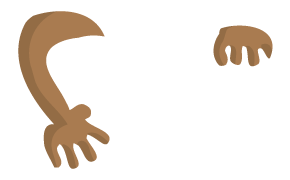
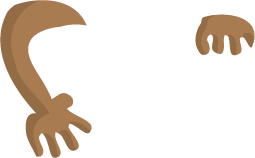
Updated customer arms graphics.

Changed region(s): [[0.0, 0.0, 0.3843, 1.0], [0.7137, 0.0759, 1.0, 0.3797]]

diff --git a/js/game/entities/person.js b/js/game/entities/person.js
@@ -9,11 +9,11 @@ define(function (require) {
         {
             face: {
                 image: './blender_images/sprite_face_1.png',
-                options: { x: 80, y: 70, width: 155, frames: [0, 1] }
+                options: { x: 60, y: 70, width: 155, frames: [0, 1] }
             },
             arms: {
                 image: './blender_images/people_arms2.png',
-                options: { x: 0, y: 170 }
+                options: { x: 0, y: 182 }
             },
             victory: {
                 image: './blender_images/people_arms2_victory.png',
@@ -23,11 +23,11 @@ define(function (require) {
         {
             face: {
                 image: './blender_images/sprite_face_2.png',
-                options: { x: 80, y: 70, width: 118, frames: [0, 1] }
+                options: { x: 60, y: 70, width: 118, frames: [0, 1] }
             },
             arms: {
                 image: './blender_images/people_arms1.png',
-                options: { x: 0, y: 170 }
+                options: { x: 0, y: 182 }
             },
             victory: {
                 image: './blender_images/people_arms1_victory.png',
@@ -37,11 +37,11 @@ define(function (require) {
         {
             face: {
                 image: './blender_images/sprite_face_3.png',
-                options: { x: 80, y: 90, width: 123, frames: [0, 1] }
+                options: { x: 60, y: 90, width: 123, frames: [0, 1] }
             },
             arms: {
                 image: './blender_images/people_arms2.png',
-                options: { x: 0, y: 170 }
+                options: { x: 0, y: 182 }
             },
             victory: {
                 image: './blender_images/people_arms2_victory.png',
